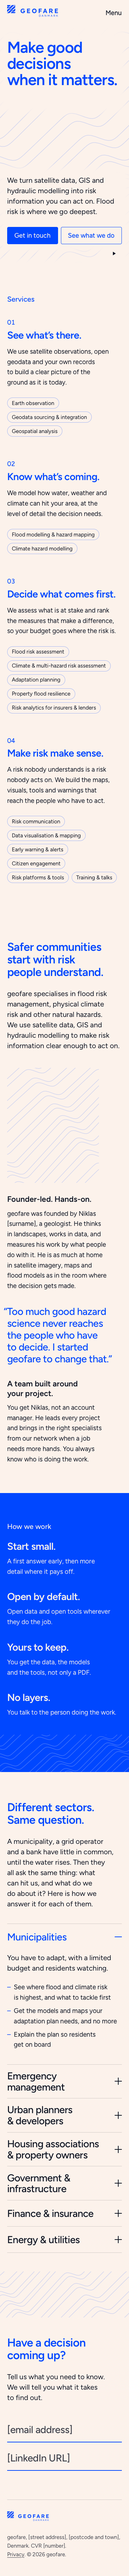
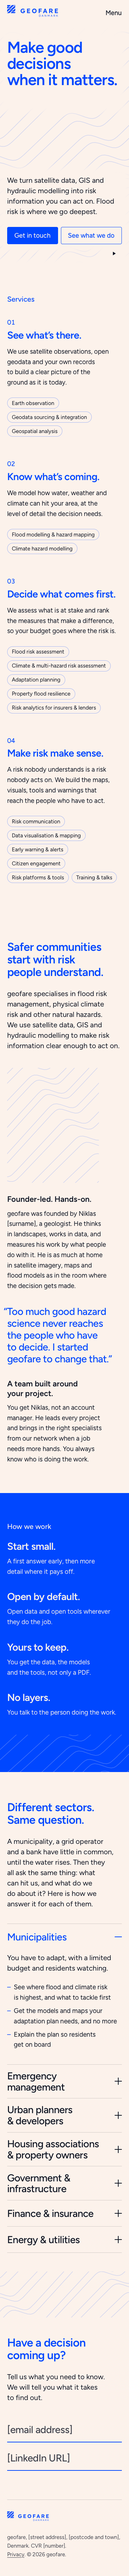
Update the quality report and screenshots after the final review fixes

diff --git a/docs/quality-report.md b/docs/quality-report.md
@@ -1,25 +1,25 @@
 # Quality report
 
-Measured on 1 October 2026 against the "Quality bar" in `briefing.md`, on the Docker container built from this repository (nginx, gzip and cache headers as in production) and on the Astro preview server.
+Measured on 1 October 2026 against the "Quality bar" in `briefing.md`, on the Docker container built from this repository (nginx, gzip and cache headers as in production) and on the Astro preview server. The test results, font-swap figures and screenshots were measured again after the final round of fixes (see "Final review fixes"); Lighthouse and the sizes taken from a running container were not, and say so where they appear.
 
 Result: every line of the quality bar is met in the measurements below, with these limits:
 
 - **Browsers** were checked with the current engines only: installed Google Chrome, and Playwright's builds of WebKit (Safari's engine) and Firefox. Real Safari, Edge and the previous version of each browser were not run.
-- **Font loading.** In normal loading, Lighthouse (Chrome, emulated phone) measured no layout shift; normal loading in the other engines was not measured. When the web font is held back on purpose until the page has been drawn, nothing on the first screen moves up or down in Chrome and Safari's engine, but a few items move 1 to 7 px sideways (Chrome's layout-shift score 0.0002). In Firefox the first screen moves by up to 33 px (known limitation 6).
+- **Font loading.** In normal loading, Lighthouse (Chrome, emulated phone) measured no layout shift; normal loading in the other engines was not measured. When the web font is held back on purpose until the page has been drawn, nothing on the first screen moves up or down in Chrome, Firefox and Safari's engine, but a few items move 1.4 to 6.5 px sideways (Chrome's layout-shift score 0.0002).
 
-Two small changes to the site were made, both for the font fallback (see Fixes made). The rest of the work went into the tests and measurements below.
+Two small changes to the site were made in the first round, both for the font fallback (see Fixes made). The final review fixes are listed under "Final review fixes".
 
 ## The quality bar, line by line
 
 | Requirement | How it was measured | Result | Evidence |
 | --- | --- | --- | --- |
-| **Accessibility.** WCAG 2.2 AA, full keyboard use, visible focus, skip link, reduced motion, pause control | axe-core (WCAG 2.0 to 2.2, A and AA rules) at 360 and 1280 px with every sector open, with the menu open, and with the animation paused; a Tab walk through the whole page at 1280 and at 360 with the menu open, checking every stop for a ring, the ring's contrast against what it is drawn on (3:1 needed), and that it is not hidden under the header; tests for the skip link, Escape on the menu, Enter on the sector rows, reduced motion and the pause button. All in Chrome, Firefox and WebKit. Lighthouse accessibility audit. | 0 axe violations. 18 Tab stops at 1280 and 16 at 360 (menu open), each with a 3 px ring; lowest ring contrast 5.69:1. Nothing in the blue section takes focus. Reduced motion shows the final sentence and one still frame with no pause button. Pause stops all drawing. Lighthouse accessibility 100. | `tests/e2e/a11y.spec.ts`, `focus.spec.ts`, `header.spec.ts`, `hero.spec.ts`, `sectors.spec.ts`; focus rings: `docs/screenshots/focus-*.png` |
+| **Accessibility.** WCAG 2.2 AA, full keyboard use, visible focus, skip link, reduced motion, pause control | axe-core (WCAG 2.0 to 2.2, A and AA rules) at 360 and 1280 px with every sector open, with the menu open, and with the animation paused; a Tab walk through the whole page at 1280 and at 360 with the menu open, checking every stop for a ring, the ring's contrast against what it is drawn on (3:1 needed), and that it is not hidden under the header; tests for the skip link, Escape on the menu, Enter on the sector rows, reduced motion and the pause button; in forced colours (Windows High Contrast, emulated), the sector plus and minus and the contact rules are painted in a colour other than the page's. All in Chrome, Firefox and WebKit. Lighthouse accessibility audit. | 0 axe violations. Sector signs and contact rules visible in forced colours. 18 Tab stops at 1280 and 16 at 360 (menu open), each with a 3 px ring; lowest ring contrast 5.69:1. Nothing in the blue section takes focus. Reduced motion shows the final sentence and one still frame with no pause button. Pause stops all drawing. Lighthouse accessibility 100. | `tests/e2e/a11y.spec.ts`, `focus.spec.ts`, `forced-colors.spec.ts`, `header.spec.ts`, `hero.spec.ts`, `sectors.spec.ts`; focus rings: `docs/screenshots/focus-*.png` |
 | **Contrast.** At least 4.5:1 everywhere, including over the animation and on the blue section | In the browser: every visible piece of text (117 to 122 per page state) and every list marker. For each one, the colour as drawn is measured against the colour behind it, at 360 and 1280: at rest, with the animation running, paused, with the menu open, and with each button and link hovered. 4.5:1 is required for all text, large or small. Separately, a test reads the canvas pixels behind every piece of hero text and every button during the whole headline rotation: no line is drawn behind them. | Lowest ratio found: **5.69:1** (blue on cream, and cream on the blue section). No text below that, in any of the three browsers. No line pixel behind any hero text or control. | `tests/e2e/contrast.spec.ts`, `tests/e2e/hero.spec.ts` ("no line sits behind text or controls") |
-| **Performance.** Lighthouse 95+ in all four categories on mobile; under 50 KB JavaScript compressed; no layout shift when fonts load | `npm run lighthouse` against the container: Lighthouse 13.5.0 (pinned), mobile emulation and throttling, three runs, median kept. Sizes measured from the container with gzip (recipe below). Font swap: a test holds the web font back until the page has been drawn with the fallback face, then lets it through, and compares every box on the first screen; in Chrome it also reads Chrome's own layout-shift score. | Median: **Performance 100, Accessibility 100, Best Practices 100, SEO 100.** Layout shift 0.000, first paint 1.12 s, largest paint 1.57 s, blocking time 0 ms. JavaScript **3.2 KB** compressed in total (two files); the animation file 2.8 KB compressed (5.8 KB raw), against a 15 KB budget. Page weight 63 KB transferred. Font held back, Chrome and WebKit: nothing moves up or down; the second hero button moves 1.4 to 1.7 px sideways, and at 960 px and wider the right-aligned menu up to 6.5 px; Chrome's layout-shift score 0.0000 at 360 and 0.0002 at 1280. Firefox: see Known limitations. | `scripts/lighthouse.mjs`; `tests/e2e/fonts.spec.ts` |
+| **Performance.** Lighthouse 95+ in all four categories on mobile; under 50 KB JavaScript compressed; no layout shift when fonts load | `npm run lighthouse` against the container: Lighthouse 13.5.0 (pinned), mobile emulation and throttling, three runs, median kept. Sizes measured from the container with gzip (recipe below). Font swap: a test holds the web font back until the page has been drawn with the fallback face, then lets it through, and compares every box on the first screen; in Chrome it also reads Chrome's own layout-shift score. | Median: **Performance 100, Accessibility 100, Best Practices 100, SEO 100.** Layout shift 0.000, first paint 1.12 s, largest paint 1.57 s, blocking time 0 ms. JavaScript **3.2 KB** compressed in total (two files); the animation file 2.8 KB compressed (5.8 KB raw), against a 15 KB budget. Page weight 63 KB transferred. (Lighthouse and page weight were measured before the final review fixes, at commit b94f449; the JavaScript has not changed since, the HTML has grown by about 6 KB sent, see Budgets.) Font held back, all three engines: nothing moves up or down; the second hero button moves 1.4 to 1.7 px sideways, and at 960 px and wider the right-aligned menu up to 6.5 px (Chrome 6.5, WebKit 6.3, Firefox 6.2); Chrome's layout-shift score 0.0000 at 360 and 0.0002 at 1280. | `scripts/lighthouse.mjs`; `tests/e2e/fonts.spec.ts` |
 | **Privacy.** No cookies, no third-party requests, no font CDN, tag manager, embed or analytics | After loading the page, using the pause button, scrolling to the end, opening all seven sectors, visiting the privacy page and a missing page: cookies, `localStorage`, `sessionStorage` and every request URL are checked. The container's headers are checked for `Set-Cookie`. The Content Security Policy only allows the site's own files. | No cookies, nothing stored, 25 to 27 requests, all to the site's own address. Lighthouse lists one origin. No `Set-Cookie` header. | `tests/e2e/privacy.spec.ts`, `tests/e2e/smoke.spec.ts`, `tests/docker/smoke.sh` |
-| **Responsive.** Works from 360 to 1920 px; checked at 360, 768, 1280, 1920 | Automated: no sideways scrolling and nothing past the right edge on every page at 320, 360, 768, 1280 and 1920 px; layout tests for the services grid, principles, About spread and sector rows. Full-page screenshots at all four widths, looked at one by one. | No overflow at any width. Layout as designed at all four widths. | `tests/e2e/layout.spec.ts`; `docs/screenshots/home-360.png`, `home-1280.png` |
-| **Browsers.** Two latest versions of Chrome, Safari, Firefox, Edge | The whole browser test suite (108 tests) in three engines: Google Chrome 152 (installed) and WebKit 26.6 (Playwright's build, the engine of Safari 26) with `npm run test:e2e`; Firefox 155 (Playwright's build, on Linux in Docker) with `npm run test:e2e:firefox:docker`, because Playwright's Firefox does not start on macOS 27. Screenshots at 360 and 1280 in each. Real Safari, Edge and previous versions were not run. | Chrome and WebKit: 108 of 108 pass. Firefox: 106 pass, and the 2 font-swap tests showed the expected movement (known limitation 6). That Firefox run was made before the font-swap test's Firefox expectation was narrowed to the box comparison; the narrowed version has not yet been run in Firefox. Screenshots match. | `npm run test:e2e`, `npm run test:e2e:firefox:docker`; `docs/screenshots/browsers/` |
-| **Copy.** Matches the brief word for word | Build tests compare the built HTML with the brief's copy, extracted to `tests/fixtures/copy.en.json`. The rendered page was also read once against the brief for order and punctuation. | 119 of 119 build tests pass. Order and punctuation match. Two points to note are listed under "Points in the brief". | `tests/build/copy.test.ts`, `seo.test.ts` |
+| **Responsive.** Works from 360 to 1920 px; checked at 360, 768, 1280, 1920 | Automated: no sideways scrolling and nothing past the right edge on every page at 320, 360, 768, 1280 and 1920 px; layout tests for the services grid, principles, About spread and sector rows. The still line-field drawings (About picture, blue section, band above Contact) are checked to be drawn at the hero's scale, one unit to one CSS pixel, at 360, 768, 1280 and 1920. Full-page screenshots at all four widths, looked at one by one. | No overflow at any width. Layout as designed at all four widths. Still line fields at scale 1 at all four widths. | `tests/e2e/layout.spec.ts`; `docs/screenshots/home-360.png`, `home-1280.png` |
+| **Browsers.** Two latest versions of Chrome, Safari, Firefox, Edge | The whole browser test suite (114 tests) in three engines: Google Chrome 152 (installed) and WebKit 26.6 (Playwright's build, the engine of Safari 26) with `npm run test:e2e`; Firefox 155 (Playwright's build, on Linux in Docker) with `npm run test:e2e:firefox:docker`, because Playwright's Firefox does not start on macOS 27. Screenshots at 360 and 1280 in each. Real Safari, Edge and previous versions were not run. | Chrome and WebKit: 114 of 114 pass. Firefox: 114 of 114 pass, with the same expectations as the other engines (the repository mounted read-only into the test container). Screenshots match. The Firefox comparison screenshots in `docs/screenshots/browsers/` are from before the final review fixes, because Firefox does not start on this Mac; they differ from the current page only in the line-field drawings below the blue section, above Contact and in the About picture. | `npm run test:e2e`, `npm run test:e2e:firefox:docker`; `docs/screenshots/browsers/` |
+| **Copy.** Matches the brief word for word | Build tests compare the built HTML with the brief's copy, extracted to `tests/fixtures/copy.en.json`. The rendered page was also read once against the brief for order and punctuation. | 135 of 135 Vitest tests pass (35 on the built HTML, 100 unit tests). Order and punctuation match. A placeholder may be filled in without a test change. Two points to note are listed under "Points in the brief". | `tests/build/copy.test.ts`, `seo.test.ts` |
 | **Deployment.** Image builds from a clean checkout, starts with one command, answers on the published port | `npm run test:docker` builds the image from a clean `git archive` of the last commit, starts it with `docker compose up` and checks 47 things: pages, 404, gzip, cache headers, security headers, health check, non-root user, read-only filesystem. | All checks pass. Image 51 MB, runs as uid 101, healthy. | `tests/docker/smoke.sh` |
 
 Screenshots (Chrome, animation paused): [360 px](screenshots/home-360.png), [1280 px](screenshots/home-1280.png). The same widths in WebKit and Firefox are in [screenshots/browsers](screenshots/browsers/).
@@ -38,11 +38,13 @@ Screenshots (Chrome, animation paused): [360 px](screenshots/home-360.png), [128
 | All JavaScript (two files) | 6.5 KB | 3.2 KB | under 50 KB |
 | Animation, headline and pause button (one file) | 5.8 KB | 2.8 KB | under 15 KB |
 | Font (Figtree variable, Latin) | 19.7 KB | 19.7 KB (woff2) | |
-| Home page HTML | 57.9 KB | 17.4 KB | |
-| Stylesheets (two files) | 19.3 KB | 4.9 KB | |
-| Whole page, as Lighthouse measures it | | 63.2 KB | |
+| Home page HTML | 74.3 KB | 24.0 KB * | |
+| Stylesheets (two files) | 20.5 KB | 5.2 KB * | |
+| Whole page, as Lighthouse measures it | | 63.2 KB (at b94f449) | |
 
-The HTML is the largest file after the font because it contains the still line-field drawings (About picture, blue section, the band above Contact and the no-JavaScript hero). Lighthouse is not affected by this.
+\* Measured from `dist/` with `gzip -6`, nginx's level, after the final review fixes; the other rows were measured from the container at b94f449 and those files have not changed.
+
+The HTML is the largest file because it contains the still line-field drawings (About picture, blue section, the band above Contact and the no-JavaScript hero). The two bands are now drawn 2560 px wide at the hero's scale and cropped, instead of 1440 px wide and scaled to the screen, which added about 6 KB sent.
 
 To measure the sizes again, with the container running on port 8081:
 
@@ -70,6 +72,17 @@ To the tests and tools:
 - `smoke.spec.ts`: the "own origin" check uses the test address instead of `localhost`, so it also works against the container.
 - New scripts: `scripts/lighthouse.mjs` (`npm run lighthouse`, Lighthouse pinned to 13.5.0) and `scripts/screenshots.mjs` (page and focus-ring screenshots). `.lighthouse/` is ignored by git. README updated.
 
+## Final review fixes
+
+- **Content checks** (`src/lib/content-rules.ts`, `src/content.config.ts`): the build stops, naming the file, on a misspelt front-matter key in a section file, a missing title where the section shows one, an empty text where the section shows one, or two services, sectors or principles of one language with the same `order` or `slug`.
+- **Copy tests** accept a filled-in placeholder; the sector test reads the names from the brief's fixture.
+- **Firefox font swap** (`src/styles/fonts.css`): three hidden letters (pseudo-elements with empty alternative text) set in "Figtree Fallback" at 400, 500 and 600 make Firefox load the fallback faces from the start, so it uses them while Figtree loads. Measured on Linux Firefox 155 with the font held back: the menu moves 6.2 px sideways at most, where it moved 33 px; nothing moves up or down. The same test (without the fix, with the same warm-up) still shows 33 px, so the fix is what removes it.
+- **Forced colours:** the sector plus and minus and the contact rules use system colours there.
+- **Structured data:** no `areaServed` (the brief gives none); street, postcode and town once they are real.
+- **Still line fields** at the hero's scale on every screen width.
+- **Headers:** `interest-cohort=()` removed from `Permissions-Policy`.
+- **Tools:** `.nvmrc` names Node 24, as the Docker build; the brand-asset script uses `fileURLToPath`; the locale helpers are tested with a Danish locale.
+
 ## Known limitations
 
 1. **JavaScript on, but the script fails to load.** This is rare: the site's own scripts would have to fail to download. If it happens, on screens under 960 px the menu button is shown but does nothing, so the menu links cannot be reached; the page can still be scrolled, and the hero's "Get in touch" button still works. The headline shows its first ending ("when the future is uncertain."), and the pause button is shown but does nothing. Screen readers and search engines still get the full `h1` ("Make good decisions when it matters."). The cause is that the stylesheet decides from whether JavaScript is switched on, not from whether the script ran. Fixing it means rebuilding the menu so it opens without the script, for example with the HTML `popover` attribute; that was not attempted in this round.
@@ -77,7 +90,7 @@ To the tests and tools:
 3. **Firefox and focus near the bottom edge.** When Tab reaches a sector row that already shows a little at the bottom of the window, Firefox does not scroll it fully into view. The row and three sides of its ring are visible. Chrome and Safari scroll it fully into view. This is how Firefox works on every site.
 4. **Firefox has no `text-wrap: pretty`**, so a paragraph can end on a single short word ("them."). The text is complete and nothing overlaps.
 5. **Sector headings inside the open/close row.** Each sector name is an `h3` inside the row's `<summary>`. In Chrome this works: Chrome reports a disclosure control, with its open or closed state, named by the sector, containing a level-3 heading, so heading navigation and the open/close control both work. In Safari and Firefox it was not verified. Before launch, check it in Safari with VoiceOver: open the rotor (VO+U), choose Headings, and confirm the seven sector names are listed and that each row announces as collapsed or expanded.
-6. **Firefox moves the first screen if the web font arrives late.** While Figtree is loading, Firefox draws with its default sans-serif instead of the matched fallback face, because it only loads a fallback face that something uses first-hand. If Figtree then arrives after the page is first drawn, the first screen moves: measured on Linux Firefox 155, at 1280 px the menu links move up to 33 px sideways and the hero buttons 5 px; at 360 px the menu button 1.4 px, and the first service text grows by one line just below the first screen. Firefox on Mac and Windows was not measured. The font is preloaded (20 KB); whether it arrives before the first drawing in Firefox in normal loading was not measured (in Chrome, Lighthouse measured no shift). In Firefox, `fonts.spec.ts` expects the movement: only its box comparison is inverted for Firefox, so the test fails, and says so, when a Firefox version stops moving the page. Removing the shift completely in every browser would need `font-display: optional`, at the price that a visitor on a slow first visit sees the fallback instead of Figtree for that visit. That is a brand decision, so it was not made.
+6. **Firefox just after it starts.** In the test container, a Firefox that had just started sometimes rebuilt its font list in the middle of its first page load (seen in 1 of about 3 fresh starts) and then drew that page in its default sans-serif, so a late Figtree moved the first screen as it did without the fix (seen at 360 px: the menu button 1.4 px sideways, the first service text one line taller). `fonts.spec.ts` therefore lets the browser settle on a page of plain text for one second before it measures; with that, 20 of 20 repeated runs kept to the numbers above. It was not seen once the browser had settled. Firefox on Mac and Windows was not measured. Removing all sideways movement in every browser would need `font-display: optional`, at the price that a visitor on a slow first visit sees the fallback instead of Figtree for that visit; that brand decision was not needed for this fix and was not made.
 
 ## Points in the brief
 
